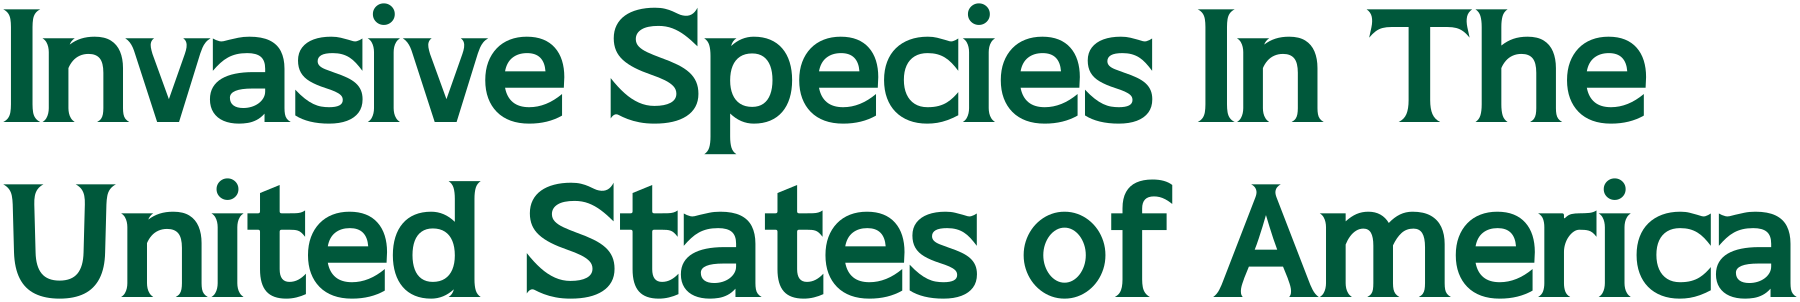
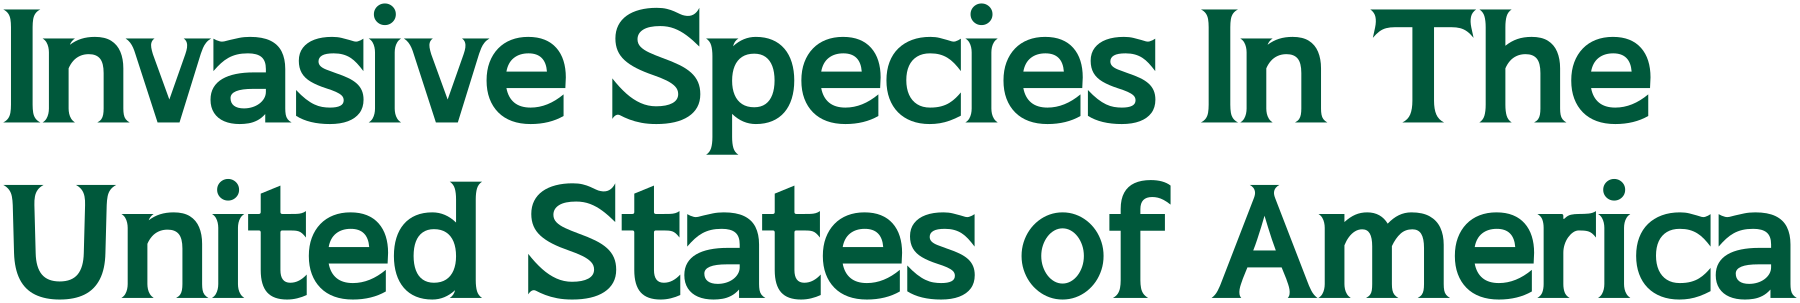
Refine States spacing in Invasive Serif and brand assets

diff --git a/app/brand/page.tsx b/app/brand/page.tsx
@@ -17,11 +17,11 @@ export default function BrandPage() {
       <a className="text-link" href={asset.file} download><ArrowDownToLine size={16} aria-hidden="true" /> Download SVG</a>
     </section>)}</div>
     <section className="brand-kit-card" aria-labelledby="full-wordmark-heading">
-      <div className="brand-kit-art" style={{height:"auto",maxWidth:"none"}}><Image className="brand-art" src="/brand/v10/full-name.svg?v=1.001" width={11180} height={1874} style={{height:"auto"}} alt="Invasive Species In The United States of America" unoptimized /></div>
+      <div className="brand-kit-art" style={{height:"auto",maxWidth:"none"}}><Image className="brand-art" src="/brand/v10/full-name.svg?v=1.004" width={11150} height={1874} style={{height:"auto"}} alt="Invasive Species In The United States of America" unoptimized /></div>
       <h2 id="full-wordmark-heading">Our full name, in our own lettering.</h2><p>The same botanical lettering as our wordmark and public headings, supplied as scalable outlines.</p>
-      <a className="text-link" href="/brand/v10/full-name.svg?v=1.001" download>Download SVG</a>
+      <a className="text-link" href="/brand/v10/full-name.svg?v=1.004" download>Download SVG</a>
     </section>
-    <section className="brand-kit-card"><h2>One family. A living identity.</h2><p>Invasive Serif pairs broad, flowing curves with crisp, flared ends. Its sculptural capitals share the same outlines in our logo and headings. The complete Latin display system includes capitals, lowercase, numbers, accents and punctuation, with individually refined spacing. Body copy stays in a clear sans-serif.</p><div className="brand-kit-actions"><a className="text-link" href="/fonts/invasive-serif/InvasiveSerif-Bold.ttf?v=1.001" download>Download Invasive Serif</a><a className="text-link" href="/fonts/invasive-serif/README.txt">Font usage notes</a></div></section>
+    <section className="brand-kit-card"><h2>One family. A living identity.</h2><p>Invasive Serif pairs broad, flowing curves with crisp, flared ends. Its sculptural capitals share the same outlines in our logo and headings. The complete Latin display system includes capitals, lowercase, numbers, accents and punctuation, with individually refined spacing. Body copy stays in a clear sans-serif.</p><div className="brand-kit-actions"><a className="text-link" href="/fonts/invasive-serif/InvasiveSerif-Bold.ttf?v=1.004" download>Download Invasive Serif</a><a className="text-link" href="/fonts/invasive-serif/README.txt">Font usage notes</a></div></section>
     <h2>Keep it recognizable.</h2>
     <p className="brand-kit-note">Write our name as <strong>ISITUSA</strong> and our website as <strong>isitusa.com</strong>. Keep the artwork in its original proportions, with clear space around it. Use green on light backgrounds and white on dark backgrounds.</p>
     <p className="brand-kit-note">Use the logo to identify the project accurately. Its use should not suggest an endorsement, partnership, government affiliation, or nonprofit status.</p>

diff --git a/app/globals.css b/app/globals.css
@@ -1277,7 +1277,7 @@ html { scroll-padding-top:calc(var(--site-header-height) + var(--site-header-top
 .profile-section-nav{display:flex;flex-wrap:wrap;gap:8px 28px;margin-top:24px;font-size:14px}.profile-section-nav a{display:inline-flex;align-items:center;min-height:44px;text-decoration:underline;text-underline-offset:4px}.profile-report-callout{display:flex;align-items:center;justify-content:space-between;gap:24px;padding:24px 0;border-block:1px solid var(--border)}.profile-report-callout h3{font-size:22px;margin-bottom:8px}.profile-report-callout p{font-size:15px;color:var(--muted)}.profile-correction form{max-width:780px;padding-top:20px}.profile-correction h3{font-size:23px;line-height:1.4}.profile-correction legend{padding-bottom:12px}@media(max-width:640px){.profile-report-callout{align-items:flex-start;flex-direction:column}.profile-section-nav{gap:4px 20px}}
 
 /* One editorial voice; data, controls and body copy retain the UI sans. */
-@font-face{font-family:"Invasive Serif";src:url("/fonts/invasive-serif/invasive-serif.woff2?v=1.001") format("woff2");font-style:normal;font-weight:700;font-display:swap}
+@font-face{font-family:"Invasive Serif";src:url("/fonts/invasive-serif/invasive-serif.woff2?v=1.004") format("woff2");font-style:normal;font-weight:700;font-display:swap}
 h1,h2,h3,
 :is(.reading-page,.about-page,.brand-kit) h1,
 :is(.reading-page,.about-page,.brand-kit) h2,

diff --git a/app/layout.tsx b/app/layout.tsx
@@ -48,7 +48,7 @@ export default function RootLayout({
 }>) {
   return (
     <html lang="en" suppressHydrationWarning>
-      <head><link rel="preload" href="/fonts/invasive-serif/invasive-serif.woff2?v=1.001" as="font" type="font/woff2" crossOrigin="anonymous" /></head>
+      <head><link rel="preload" href="/fonts/invasive-serif/invasive-serif.woff2?v=1.004" as="font" type="font/woff2" crossOrigin="anonymous" /></head>
       <body className="font-[family-name:var(--font-body)] antialiased">
         <Providers>
           <div className="app-frame">

diff --git a/scripts/build-invasive-serif.py b/scripts/build-invasive-serif.py
@@ -1,4 +1,4 @@
-"""Package Invasive Serif with the scoped 1.001 h and logo spacing refinements."""
+"""Package Invasive Serif with the approved h, logo and States spacing refinements."""
 from pathlib import Path
 import hashlib
 import json
@@ -9,6 +9,8 @@ import uharfbuzz as hb
 from fontTools.ttLib import TTFont
 from fontTools.pens.svgPathPen import SVGPathPen
 from fontTools.pens.boundsPen import BoundsPen
+from fontTools.ttLib.tables import otTables
+from fontTools.ttLib.tables.otBase import ValueRecord
 
 ROOT = Path(__file__).resolve().parents[1]
 FONTDIR = ROOT / 'public/fonts/invasive-serif'
@@ -19,7 +21,33 @@ OUT.mkdir(parents=True, exist_ok=True)
 if len(sys.argv) > 1:
     MASTER.parent.mkdir(parents=True, exist_ok=True)
     shutil.copyfile(sys.argv[1], MASTER)
-font = TTFont(MASTER)
+font = TTFont(MASTER, recalcTimestamp=False)
+
+def balance_tat(candidate):
+    # Preserve the approved ta gap and bring the following t 30/1000 em closer
+    # than revision 1.002. Glyph outlines and unrelated pairs stay untouched.
+    cmap = candidate.getBestCmap()
+    table = candidate['GPOS'].table.LookupList.Lookup[0].SubTable[0]
+    assert table.Format == 1 and table.ValueFormat1 == 4 and table.ValueFormat2 == 0
+    for first, second, before, after in [('t', 'a', -9, 1), ('a', 't', None, -40)]:
+        pairset = table.PairSet[table.Coverage.glyphs.index(cmap[ord(first)])]
+        name = cmap[ord(second)]
+        matches = [pair for pair in pairset.PairValueRecord if pair.SecondGlyph == name]
+        if before is None:
+            assert not matches
+            record = otTables.PairValueRecord()
+            record.SecondGlyph = name
+            record.Value1 = ValueRecord(table.ValueFormat1)
+            record.Value2 = None
+            pairset.PairValueRecord.append(record)
+        else:
+            assert len(matches) == 1 and matches[0].Value1.XAdvance == before
+            record = matches[0]
+        record.Value1.XAdvance = after
+        pairset.PairValueRecord.sort(key=lambda pair: candidate.getGlyphID(pair.SecondGlyph))
+        pairset.PairValueCount = len(pairset.PairValueRecord)
+
+balance_tat(font)
 # Translate the complete top serif down 20 units, shortening only the straight
 # ascender. Preserve its curves, width, shoulder, sidebearings and all kerning.
 h_name = font.getBestCmap()[ord('h')]
@@ -32,9 +60,9 @@ for point in range(31, 39):
 h_glyph.recalcBounds(font['glyf'])
 assert h_glyph.yMax == font['glyf'][font.getBestCmap()[ord('T')]].yMax == 700
 names = {0: 'Copyright 2026 ISITUSA.', 1: 'Invasive Serif', 2: 'Bold',
-         3: 'ISITUSA:InvasiveSerif-Bold:1.001', 4: 'Invasive Serif Bold',
-         5: 'Version 1.001', 6: 'InvasiveSerif-Bold', 16: 'Invasive Serif',
-         17: 'Bold', 10: 'ISITUSA botanical display lettering. Grove XXIII with the approved h ascender refinement.'}
+         3: 'ISITUSA:InvasiveSerif-Bold:1.004', 4: 'Invasive Serif Bold',
+         5: 'Version 1.004', 6: 'InvasiveSerif-Bold', 16: 'Invasive Serif',
+         17: 'Bold', 10: 'ISITUSA botanical display lettering. Grove XXIII with approved h ascender and ta/at spacing refinements.'}
 for record in font['name'].names:
     if record.nameID in names:
         record.string = names[record.nameID].encode(record.getEncoding())
@@ -43,6 +71,7 @@ for key, value in names.items():
 font['OS/2'].usWeightClass = 700
 font['OS/2'].fsSelection = (font['OS/2'].fsSelection & ~65) | 32
 font['head'].macStyle = (font['head'].macStyle & ~2) | 1
+font['head'].fontRevision = 1.004
 ttf = FONTDIR / 'InvasiveSerif-Bold.ttf'
 font.save(ttf)
 font.flavor = 'woff2'
@@ -66,7 +95,7 @@ def outline(text, logo=False):
     paths = []
     bounds = []
     for index, (gid, advance, dx, dy) in enumerate(shape(ttf, text)):
-        # Optical logo adjustments only; running-text GPOS remains untouched.
+        # These optical logo adjustments do not affect running-text GPOS.
         if logo and index in (5, 6):
             x -= {5: 16, 6: 10}[index]
         name = order[gid]
@@ -101,15 +130,17 @@ body = re.search(r'<path.*</svg>', emblem, re.S).group(0).removesuffix('</svg>')
 scale = 800/width
 (OUT / 'symbol-name.svg').write_text(f'<svg xmlns="http://www.w3.org/2000/svg" viewBox="0 0 840 1080" fill="#00583B"><title>ISITUSA</title><g fill-rule="evenodd" transform="translate(-110 -90)">{body}</g><g transform="translate({20+(20-left)*scale} {884+(20+top)*scale}) scale({scale} {-scale})">{letters}</g></svg>', encoding='utf8')
 shutil.copyfile(ROOT / 'public/brand/v9/site.webmanifest', OUT / 'site.webmanifest')
-manifest = {'version':10, 'fontRevision':'1.001', 'logoOpticalAdjustments':{'US':-16,'SA':-10}, 'family':'Invasive Serif', 'weight':700,
+manifest = {'version':10, 'fontRevision':'1.004', 'logoOpticalAdjustments':{'US':-16,'SA':-10}, 'kerningAdjustments':{'ta':{'before':-9,'after':1},'at':{'before':0,'after':-40}}, 'family':'Invasive Serif', 'weight':700,
             'wordmarkWidth':width, 'wordmarkHeight':height,
             'fullNameWidth':fullwidth, 'fullNameHeight':fullheight,
             'masterSha256':hashlib.sha256(MASTER.read_bytes()).hexdigest(),
             'fontSha256':hashlib.sha256(ttf.read_bytes()).hexdigest(),
             'encodedCharacters':len(font.getBestCmap()),
             'emblem':'Preserved v3 contours', 'shaping':'HarfBuzz OpenType kerning'}
-(OUT / 'manifest.json').write_text(json.dumps(manifest, indent=2)+'\n')
+(OUT / 'manifest.json').write_text(json.dumps(manifest, indent=2)+'\n', newline='\n')
 original = TTFont(MASTER)
+expected_spacing = TTFont(MASTER)
+balance_tat(expected_spacing)
 packaged = TTFont(ttf)
 web = TTFont(FONTDIR / 'invasive-serif.woff2')
 for candidate in [packaged, web]:
@@ -123,11 +154,14 @@ for candidate in [packaged, web]:
     assert candidate['glyf'][h_name].flags == original['glyf'][h_name].flags
     assert candidate['hmtx'].metrics == original['hmtx'].metrics
     assert candidate.getBestCmap() == original.getBestCmap()
-    assert candidate['GPOS'].compile(candidate) == original['GPOS'].compile(original)
+    assert candidate['GPOS'].compile(candidate) == expected_spacing['GPOS'].compile(expected_spacing)
     for table in ['hhea', 'prep']:
         assert candidate[table].compile(candidate) == original[table].compile(original)
 samples = ['ISITUSA', 'Your', 'October', 'Yule', 'Yvette', 'Yggdrasil',
            'Accessible invasive species research to protect the places you love.']
 for text in samples:
     assert shape(MASTER, text) == shape(ttf, text)
-print(json.dumps({**manifest, 'onlyHAscenderChanged':True, 'otherOutlinesMetricsKerningCoveragePreserved':True}))
+for text in ['States', 'state', 'status', 'United States of America']:
+    before, after = shape(MASTER, text), shape(ttf, text)
+    assert sum(p[1] for p in before) - sum(p[1] for p in after) == 30, text
+print(json.dumps({**manifest, 'onlyHAscenderChanged':True, 'onlyTaAtKerningChanged':True, 'otherOutlinesMetricsKerningCoveragePreserved':True}))

diff --git a/ops/national-research/ui-work/states-kerning-20261016/verification.md b/ops/national-research/ui-work/states-kerning-20261016/verification.md
@@ -1,0 +1,13 @@
+# Invasive Serif 1.004 release
+
+- User approved the final States spacing and authorized publication.
+- Shared TTF and WOFF2 updated to 1.004; CSS, preload and font download references use the new revision.
+- Full-name SVG and PNG rebuilt with native HarfBuzz shaping. Artwork dimensions and download reference updated.
+- All glyph outlines, advance metrics and character coverage are unchanged from production 1.001. Only ta and at kerning pairs differ from production; only at differs from the prior 1.003 proof.
+- Compared 2,704 Latin letter pairs; at advances 24 units less than in 1.003. Sta glyph positions remain unchanged. No a/t contour overlap in the rendered proof.
+- Packaging verifies TTF/WOFF2 GPOS parity, master outline preservation and approved prior h adjustment.
+- Font SHA-256: cc4ab7041a6f777a0fb801166fba8355f0ba457c4c4a30d2f8880581fcb395f2.
+- Application lint: 176 files, zero warnings/errors. TypeScript passed.
+- Vercel publication regression checks passed. No research, payment, authentication or email configuration changes.
+- Visual release checks: About, brand kit, home and support at desktop/mobile sizes; light/dark rendering, loaded font revision, image loading, overflow and downloads.
+- Hosted build and production visual verification pending at commit time.
